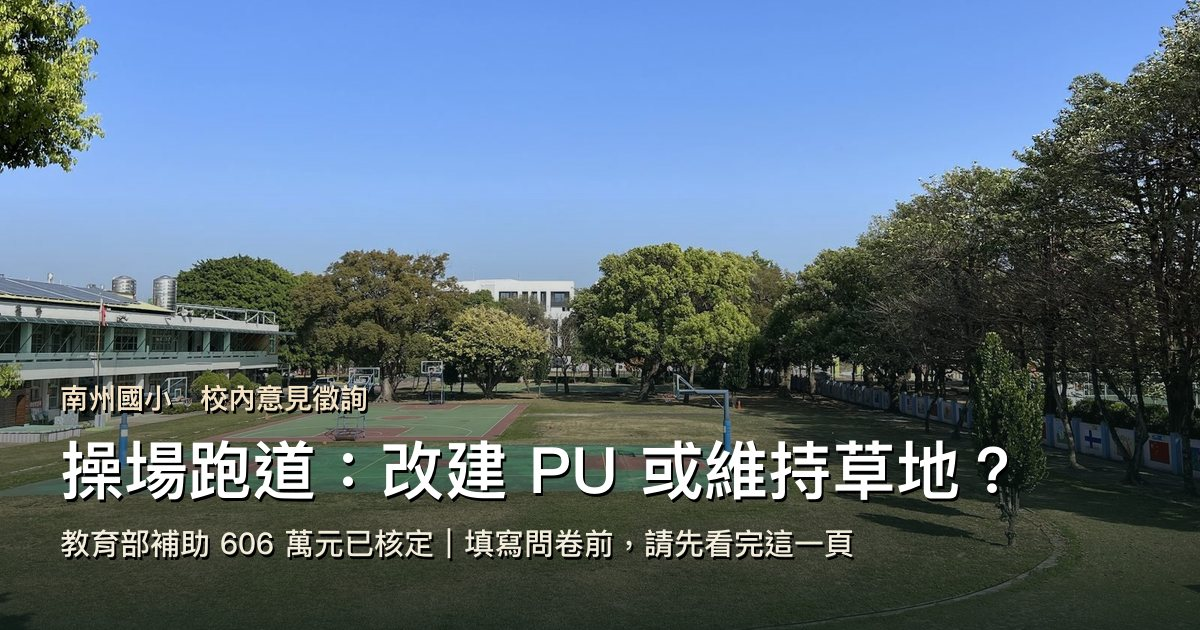
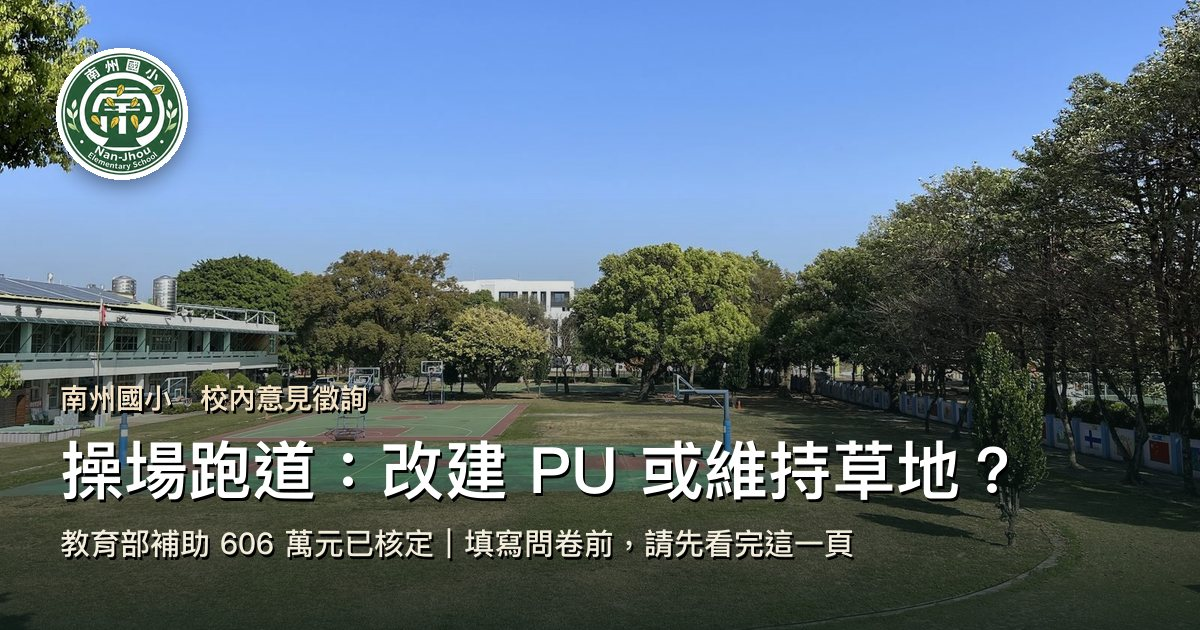
南州操場跑道頁：加入校長提供的新校徽
banner 左上校徽（進場動畫）、頁尾校徽、網頁小圖示（favicon／
apple-touch-icon），LINE 分享預覽圖左上角也加上校徽。

Changed region(s): [[0.0308, 0.0603, 0.185, 0.3016]]

diff --git a/schools/nanjhou/track/index.html b/schools/nanjhou/track/index.html
@@ -16,8 +16,8 @@
 <meta property="og:image:height" content="630">
 <meta property="og:image:alt" content="南州國小操場全景，標題：操場跑道：改建 PU 或維持草地？">
 <meta name="twitter:card" content="summary_large_image">
-<link rel="icon" type="image/png" sizes="32x32" href="../photos/crest-32.jpg">
-<link rel="apple-touch-icon" sizes="180x180" href="../photos/crest-180.jpg">
+<link rel="icon" type="image/png" sizes="32x32" href="img/logo-32.png">
+<link rel="apple-touch-icon" sizes="180x180" href="img/logo-180.png">
 <link rel="preconnect" href="https://fonts.googleapis.com">
 <link rel="preconnect" href="https://fonts.gstatic.com" crossorigin>
 <link href="https://fonts.googleapis.com/css2?family=Playfair+Display:wght@600;700;800&family=Inter:wght@400;500;600;700&display=swap" rel="stylesheet">
@@ -49,6 +49,11 @@
   @media (min-width:720px){ .banner{ min-height:560px; } }
   .banner__inner{position:relative;width:100%;max-width:1080px;margin:0 auto;padding:40px 24px 40px;color:#fff;text-shadow:0 1px 10px rgba(0,0,0,.5);}
   @media (min-width:720px){ .banner__inner{ padding:60px 24px 56px; } }
+  .banner__id{display:flex;align-items:center;gap:14px;}
+  .banner__logo{width:68px;height:68px;border-radius:50%;background:#fff;padding:3px;box-shadow:0 6px 22px rgba(0,0,0,.35);flex:0 0 auto;animation:logoIn .9s cubic-bezier(.3,1.4,.5,1) both;}
+  @media (min-width:720px){ .banner__logo{ width:92px;height:92px; } }
+  @keyframes logoIn{from{opacity:0;transform:scale(.6) rotate(-20deg);}to{opacity:1;transform:none;}}
+  @media (prefers-reduced-motion:reduce){ .banner__logo{animation:none;} }
   .banner__brand{font-size:15px;letter-spacing:3px;color:#f4e3c4;font-weight:600;}
   @media (min-width:720px){ .banner__brand{ font-size:17px; } }
   .banner h1{font-size:40px;font-weight:800;line-height:1.2;margin-top:10px;letter-spacing:1px;}
@@ -319,7 +324,7 @@
 
 <header class="banner">
   <div class="banner__inner">
-    <div class="banner__brand">南州國小 · 校內意見徵詢</div>
+    <div class="banner__id"><img class="banner__logo" src="img/logo-160.png" alt="南州國小校徽" width="92" height="92"><div class="banner__brand">南州國小 · 校內意見徵詢</div></div>
     <h1><span class="nw">操場跑道：</span><br><span class="nw">改建 PU</span><span class="vs">or</span><span class="nw">維持草地？</span></h1>
     <p class="banner__sub">教育部補助 606 萬元已核定。填寫意見調查之前，請先花十分鐘看完這一頁——照片、數字、兩個選項的得與失，都在這裡。</p>
     <a class="banner__cta" href="https://docs.google.com/forms/d/e/1FAIpQLSfyCRv9z7Ks38h4bJI5WrhvcUS4XI5IWiF7QwJsV5xWOjztSw/viewform" target="_blank" rel="noopener">已經看過了？直接填寫意見調查 ↗</a>
@@ -699,7 +704,7 @@
   </div>
 </section>
 
-<footer>© 彰化縣溪州鄉南州國民小學 · 本頁為校內意見徵詢之臨時說明頁 · <a href="../">回南州首頁</a></footer>
+<footer><img src="img/logo-160.png" alt="南州國小校徽" width="64" height="64" loading="lazy" style="width:64px;height:64px;margin:0 auto 12px;border-radius:50%">© 彰化縣溪州鄉南州國民小學 · 本頁為校內意見徵詢之臨時說明頁 · <a href="../">回南州首頁</a></footer>
 
 <a class="fab" id="fab" href="https://docs.google.com/forms/d/e/1FAIpQLSfyCRv9z7Ks38h4bJI5WrhvcUS4XI5IWiF7QwJsV5xWOjztSw/viewform" target="_blank" rel="noopener" aria-label="填寫意見調查（另開新視窗）">🗳 填寫意見調查 <span class="arr" aria-hidden="true">→</span></a>
 
